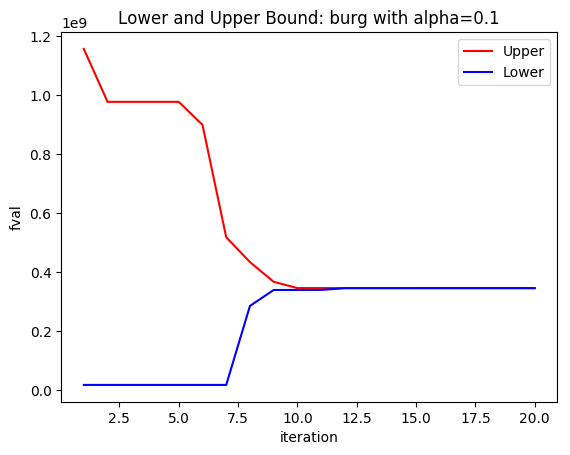
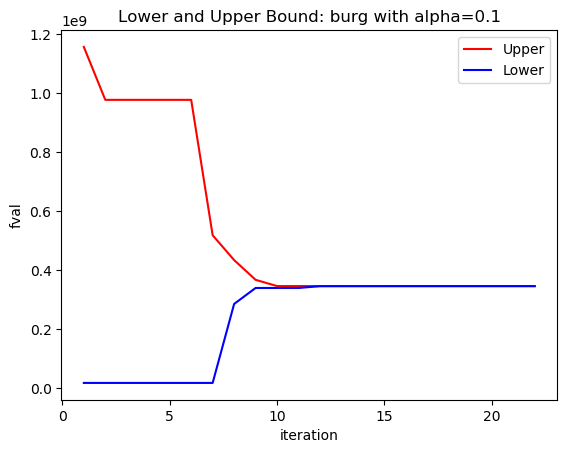
version03: S() and S_True(): edit
S() and S_True(): edit

diff --git a/Solution.py b/Solution.py
@@ -129,8 +129,13 @@ class set(object):
             self.muFeasible = np.all(self.S() < self.phiLimit + (~self.isObserved * 1.0) * tolerBound)
             # self.muFeasible = np.all((self.secondStageValues - self.mu) < self.lambda1*self.phiLimit + (~self.isObserved * 1.0) * tolerBound)
 
+
     def S(self):
         if self.lambda1 != 0:
+            # python gives numerical error, ex) (1e-6*(1-1e-3))/1e-6 != 1e-6*((1-1e-3)/1e-6)
+            if np.isfinite(self.phiLimit) and self.lambda1<=np.float64(1e-6) and self.MuFeasible() == False:
+                if np.max((self.secondStageValues - self.mu) / self.lambda1)>1:
+                    return ((self.secondStageValues - np.max(self.secondStageValues))/self.lambda1 + self.phiLimit*np.float64(1-1e-3))
             return (self.secondStageValues - self.mu) / self.lambda1
         else:
             relDiff = (self.secondStageValues - self.mu) / np.abs(self.mu)
@@ -152,6 +157,10 @@ class set(object):
 
     def S_True(self):
         if self.lambda1 != 0:
+            # python gives numerical error, ex) (1e-6*(1-1e-3))/1e-6 != 1e-6*((1-1e-3)/1e-6)
+            if np.isfinite(self.phiLimit) and self.lambda1<=np.float64(1e-6) and self.MuFeasibleTrue() == False:
+                if np.max((self.secondStageValues_true - self.mu) / self.lambda1)>1:
+                    return ((self.secondStageValues_true - np.max(self.secondStageValues_true))/self.lambda1 + self.phiLimit*np.float64(1-1e-3))
             return (self.secondStageValues_true - self.mu) / self.lambda1
         else:
             relDiff = (self.secondStageValues_true - self.mu) / np.abs(self.mu)

diff --git a/run.py b/run.py
@@ -1,19 +1,11 @@
 import main
 
 data = "water20.mat"
-
-
-phi = 'kl'
-# main.run(phi, 0.01, data, './result/' +data + "_" + phi + "_" +'result1.txt', './result/'  +data + "_" + phi + "_" + 'result1.png')
-# main.run(phi, 0.05, data, './result/' +data + "_" + phi + "_" + 'result2.txt', './result/'  +data + "_" + phi + "_" + 'result2.png')
-# main.run(phi,  0.1, data, './result/' +data + "_" + phi + "_" + 'result3.txt', './result/'  +data + "_" + phi + "_" + 'result3.png')
-
-phi = 'mchi2'
-main.run(phi, 0.01, data, './result/' +data + "_" + phi + "_" +'result1.txt', './result/'  +data + "_" + phi + "_" + 'result1.png')
-main.run(phi, 0.05, data, './result/' +data + "_" + phi + "_" + 'result2.txt', './result/'  +data + "_" + phi + "_" + 'result2.png')
-main.run(phi,  0.1, data, './result/' +data + "_" + phi + "_" + 'result3.txt', './result/'  +data + "_" + phi + "_" + 'result3.png')
-
 phi = 'burg'
-# main.run(phi, 0.01, data, './result/' +data + "_" + phi + "_" +'result1.txt', './result/'  +data + "_" + phi + "_" + 'result1.png')
-# main.run(phi, 0.05, data, './result/' +data + "_" + phi + "_" + 'result2.txt', './result/'  +data + "_" + phi + "_" + 'result2.png')
 main.run(phi,  0.1, data, './result/' +data + "_" + phi + "_" + 'result3.txt', './result/'  +data + "_" + phi + "_" + 'result3.png')
+
+
+data = "water10.mat"
+phi = 'burg'
+main.run(phi,  0.1, data, './result/' +data + "_" + phi + "_" + 'result3.txt', './result/'  +data + "_" + phi + "_" + 'result3.png')
+

diff --git a/PhiLP.py b/PhiLP.py
@@ -52,7 +52,7 @@ class set(object):
         self.numObsTotal = np.sum(self.numObsPerScen)
 
         if inRho < 0:
-            phi2deriv = np.float32(self.phi.SecondDerivativeAt1())
+            phi2deriv = np.float64(self.phi.SecondDerivativeAt1())
             if np.isfinite(phi2deriv) and phi2deriv > 0:
                 inRho = (phi2deriv / (2 * self.numObsTotal)) * chi2.ppf(0.95, self.lpModel.numScenarios - 1)
             else:
@@ -68,8 +68,8 @@ class set(object):
 
         self.optimizer = inOptimizer
 
-        self.objectiveTolerance = np.float32(1e-6)
-        self.probabilityTolerance = np.float32(5e-3)
+        self.objectiveTolerance = np.float64(1e-6)
+        self.probabilityTolerance = np.float64(5e-3)
 
         self.LAMBDA = self.lpModel_parent['obj'].size
         self.MU = self.LAMBDA + 1

diff --git a/main.py b/main.py
@@ -65,6 +65,7 @@ def run(inputPHI, alpha, matlab_input_data, saveFileName, saveFigureName):
             philp1[i].GenerateCuts()
         philp.SetChildrenStage_backward(philp1[:])
         philp.GenerateCuts()
+        totalCutsMade = totalCutsMade + 1
 
         # if ('cS' in locals() or 'cS' in globals()) and (np.array_equal(cS, philp.CandidateVector())):
         #     print(' ')
@@ -151,4 +152,4 @@ def run(inputPHI, alpha, matlab_input_data, saveFileName, saveFigureName):
 
 
 if __name__ == "__main__":
-    run('burg', 0.01, "news2.mat", './result/test1.txt', './result/test1.png')
+    run('burg', 0.1, "water10.mat", './result/test1.txt', './result/test1.png')
